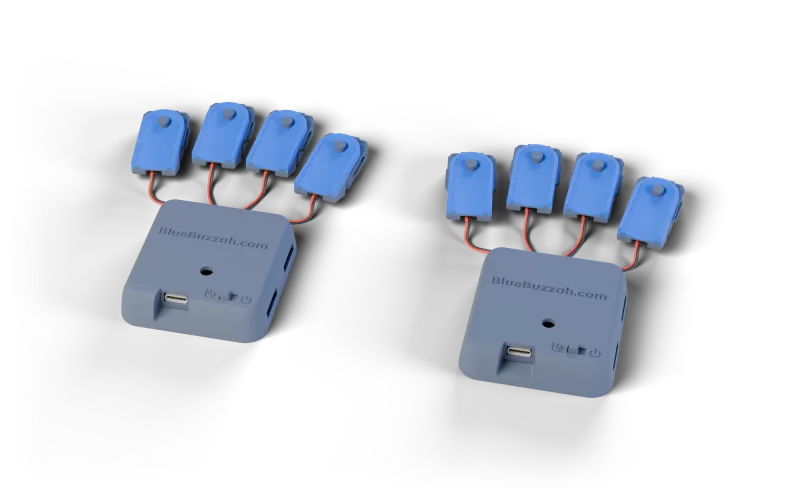
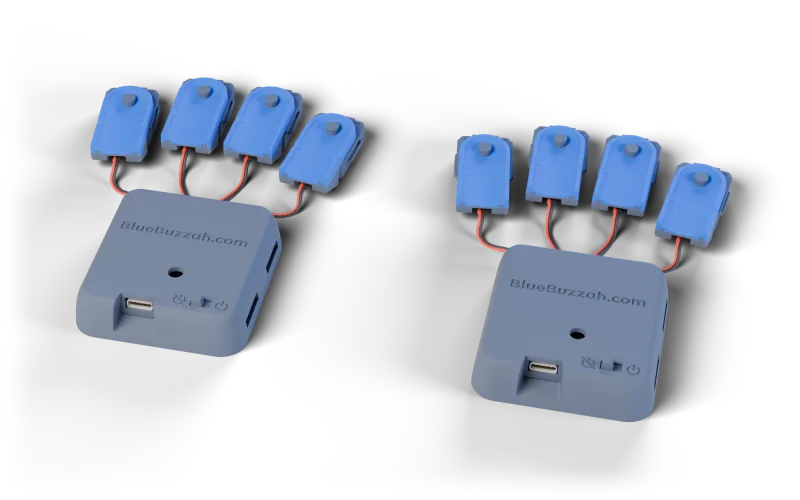
feat(home): rebalance the hero around the product render
The headline steps down to display-l, the render is framed tighter and gets a wider column, and below 900px it follows the headline in the source and on screen: edge to edge on phones, capped at prose-max on tablets.

Changed region(s): [[0.5312, 0.24, 0.9688, 0.96], [0.0625, 0.15, 0.5, 0.72], [0.6875, 0.57, 0.75, 0.6]]

diff --git a/src/.vitepress/theme/Home.vue b/src/.vitepress/theme/Home.vue
@@ -3,15 +3,19 @@
 		<section class="hero">
 			<div class="container hero__inner">
 				<div class="stack hero__text">
-					<h1 class="display-xl">Open vCR Stimulation System</h1>
-					<p class="body-l prose">BlueBuzzah is an open-source vibrotactile coordinated reset (vCR) stimulation system: a pair of gloves that deliver gentle, precisely timed patterns
-					of vibration to your fingertips. It is inspired by peer-reviewed research into vCR stimulation for people with Parkinson's disease.</p>
-					<div class="button-row">
-						<a class="bb-btn bb-btn--primary" href="#about"><svg class="bb-icon" width="24" height="24" viewBox="0 0 24 24" aria-hidden="true" focusable="false"><use href="/assets/icons/circle-question-mark.svg#icon"/></svg><span class="bb-btn__label">What is BlueBuzzah?</span></a>
-						<a class="bb-btn bb-btn--secondary" href="/docs/"><svg class="bb-icon" width="24" height="24" viewBox="0 0 24 24" aria-hidden="true" focusable="false"><use href="/assets/icons/hammer.svg#icon"/></svg><span class="bb-btn__label">Build a pair</span></a>
+					<div class="stack hero__lead">
+						<h1 class="display-l">Open vCR Stimulation System</h1>
+					</div>
+					<img class="hero__art" src="/assets/bluebuzzah-hero.webp" srcset="/assets/bluebuzzah-hero-800.webp 800w, /assets/bluebuzzah-hero.webp 1600w" sizes="(min-width: 900px) 57vw, 100vw" alt="The electronics for a pair of BlueBuzzah gloves: 2 closed cases, each with 4 tactors fanned out on short leads, 1 per finger" width="1600" height="1000" fetchpriority="high">
+					<div class="stack hero__body">
+						<p class="body-l prose">BlueBuzzah is an open-source vibrotactile coordinated reset (vCR) stimulation system: a pair of gloves that deliver gentle, precisely timed patterns
+						of vibration to your fingertips. It is inspired by peer-reviewed research into vCR stimulation for people with Parkinson's disease.</p>
+						<div class="button-row">
+							<a class="bb-btn bb-btn--primary" href="#about"><svg class="bb-icon" width="24" height="24" viewBox="0 0 24 24" aria-hidden="true" focusable="false"><use href="/assets/icons/circle-question-mark.svg#icon"/></svg><span class="bb-btn__label">What is BlueBuzzah?</span></a>
+							<a class="bb-btn bb-btn--secondary" href="/docs/"><svg class="bb-icon" width="24" height="24" viewBox="0 0 24 24" aria-hidden="true" focusable="false"><use href="/assets/icons/hammer.svg#icon"/></svg><span class="bb-btn__label">Build a pair</span></a>
+						</div>
 					</div>
 				</div>
-				<img class="hero__art" src="/assets/bluebuzzah-hero.webp" srcset="/assets/bluebuzzah-hero-800.webp 800w, /assets/bluebuzzah-hero.webp 1600w" sizes="(min-width: 900px) 55vw, 100vw" alt="The electronics for a pair of BlueBuzzah gloves: 2 closed cases, each with 4 tactors fanned out on short leads, 1 per finger" width="1600" height="1000" fetchpriority="high">
 			</div>
 		</section>
 

diff --git a/src/public/css/site.css b/src/public/css/site.css
@@ -45,16 +45,24 @@ a.bb-btn { box-sizing: border-box; }
 /* Hero on abyss (web.md Home page 1) ----------------------------------- */
 .hero { background: var(--abyss); color: var(--on-abyss); padding-block: var(--space-16); }
 .hero__inner { display: grid; gap: var(--space-8); align-items: center; }
-/* product render in place of the mark (web.md Home page 1): fills its column, stacks under the text below 900px */
-.hero__art { width: 100%; height: auto; }
+/* product render in place of the mark (web.md Home page 1). It follows the headline in the source, so phones show it
+   right under the headline and screen readers meet it in the same order. Its edges are fully transparent, so on
+   phones it runs edge to edge; on tablets it stops at prose-max. */
+.hero__art { display: block; width: calc(100% + 2 * var(--space-4)); max-width: none; height: auto; margin-inline: calc(-1 * var(--space-4)); }
 /* Button outline rule: in light themes the brand fill nearly matches abyss (2.5:1, 1.56:1 in light-hc),
    so it gets an outline in its label colour (components/Button/README.md) */
 .hero .bb-btn--primary { border-color: var(--on-brand); }
 @media (min-width: 600px) {
   .hero { padding-block: var(--space-24); }
+  .hero__art { width: 100%; max-width: var(--prose-max); margin-inline: auto; }
 }
 @media (min-width: 900px) {
-  .hero__inner { grid-template-columns: minmax(0, 1fr) minmax(0, 1.25fr); }
+  /* two columns: the lead (headline) and body left, the render right and centred beside them. The 1fr rows above and
+     below take any height the render adds, so the text stays vertically centred. */
+  .hero__text { display: grid; grid-template-columns: minmax(0, 1fr) minmax(0, 1.35fr); grid-template-rows: 1fr auto auto 1fr; column-gap: var(--space-8); }
+  .hero__lead { grid-column: 1; grid-row: 2; }
+  .hero__body { grid-column: 1; grid-row: 3; }
+  .hero__text > .hero__art { grid-column: 2; grid-row: 1 / -1; align-self: center; width: 100%; max-width: none; margin: 0; }
 }
 
 /* The one restated type style: display-xl steps down to display-l under 600px (tokens.json). Must equal
